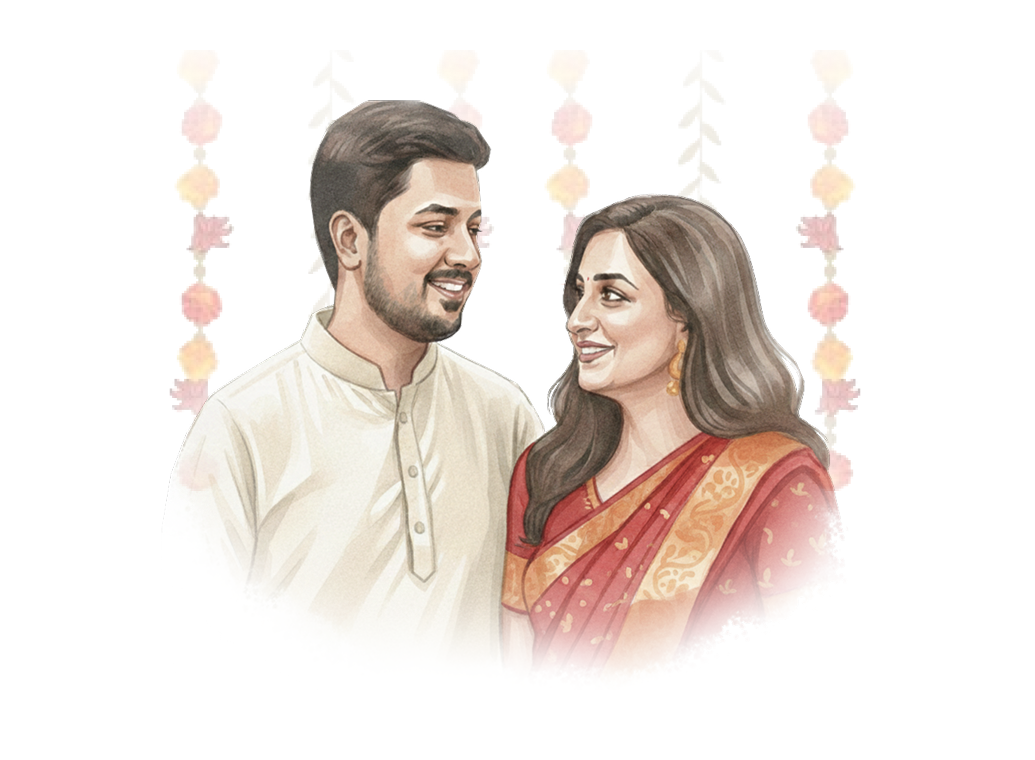
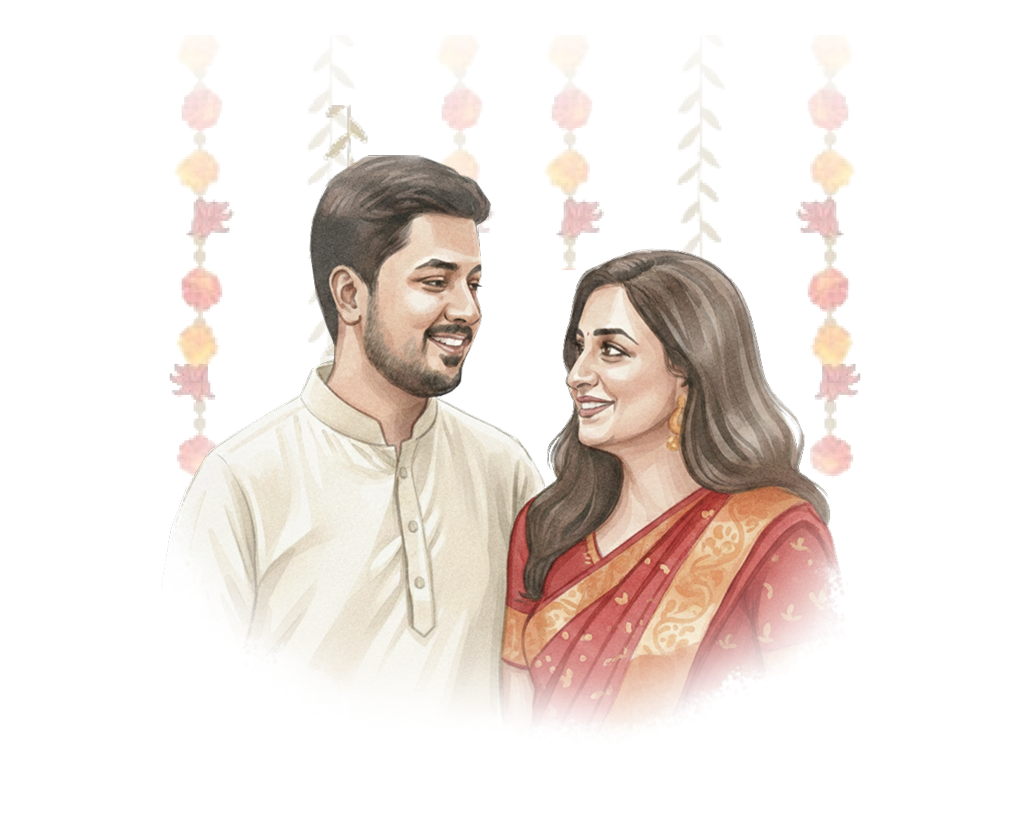
Update plain page layout and add new event image
Modified the layout of the plain page by adjusting styles and adding new navigation links for RSVP and downloading the wedding invitation PDF. Introduced a new event image for the timeline, enhancing the overall user experience.

Changed region(s): [[0.1546, 0.0908, 0.8348, 0.8474]]

diff --git a/src/app/plain/page.tsx b/src/app/plain/page.tsx
@@ -5,28 +5,22 @@ export default function Plain() {
         <div className="relative flex flex-col justify-center items-center text-2xl">
             <div className="w-full z-20" style={{ height: 20, backgroundImage: patternSvg, backgroundRepeat: "repeat-x", backgroundSize: "12px 20px" }} />
             <ul className="flex flex-col items-end gap-2 text-xl italic fixed bottom-10 right-10">
+                <li><a href="/" className="text-black/65"><span className="font-bold">rsvp</span></a></li>
                 <li><a href="/" className="text-black/65">go <span className="font-bold">home</span></a></li>
                 {/* <li><a href="/rsvp" className="text-black/65"><span className="font-bold">~ RSVP ~</span></a></li> */}
                 <li><a href="/animated" className="text-black/65">view the <span className="font-bold">animated</span> version</a></li>
+                <li><a href="/" className="text-black/65">download <span className="font-bold">wedding invitation pdf</span></a></li>
                 {/* <li><a href="/plain" className="text-black/65">view the <span className="font-bold">plain</span> version</a></li> */}
             </ul>
             <div className="flex flex-col items-center max-w-xl w-full py-16 px-8">
-                {/* Sanskrit verse */}
-                <p className="text-center text-[#B14328] leading-relaxed z-10">
-                    "Samāno mantraḥ samitiḥ samānī…"
-                </p>
-                <p className="text-center text-[#B14328] mt-2 z-10">
-                    — Rig Veda 10.191.2
-                </p>
-
                 {/* Couple illustration */}
                 <img
                     src="plain-main.png"
-                    className="-mt-8"
+                    className="-mt-20"
                 />
 
                 {/* Together with their families */}
-                <p className="italic tracking-widest">
+                <p className="italic tracking-widest -mt-6">
                     Together with their families
                 </p>
 
@@ -74,109 +68,120 @@ export default function Plain() {
                 </div>
 
                 {/* Events Timeline */}
-                <div className="mt-24 flex flex-col items-center w-full">
-                    <h2 className="tracking-[0.3em] uppercase mb-16">Events</h2>
+                <div className="mt-24 flex flex-col items-center w-full z-10">
+                    <h2 className="tracking-widest font-bold uppercase mb-16">Events</h2>
 
+                    {/* 1st May group */}
                     <div className="relative w-full max-w-xs">
-                        {/* Vertical line */}
-                        <div className="absolute left-1/2 -translate-x-1/2 top-0 bottom-0 w-px bg-black/25" />
-
-                        {/* 1st May */}
-                        <div className="relative flex items-center pb-10">
-                            <div className="w-1/2 flex items-center pr-4">
-                                <p className="text-lg italic whitespace-nowrap">1<sup className="text-xs">st</sup> May</p>
-                                <div className="flex-1 border-t border-dashed border-black/30 ml-3" />
-                            </div>
-                            <div className="w-1/2" />
-                        </div>
+                        <div className="absolute left-1/2 -translate-x-1/2 top-[166px] bottom-[36px] w-px bg-black" />
 
                         {/* Sangeeth - Right */}
                         <div className="relative flex pb-10">
+                            {/* 1st May diagonal label */}
+                            <p className="absolute whitespace-nowrap top-[40px] left-0">1<sup className="text-xs">st</sup> May</p>
+                            <svg className="absolute left-[80px] top-[52px]" width="80" height="114" fill="none">
+                                <line x1="0" y1="0" x2="80" y2="114" stroke="black" strokeOpacity="1" strokeDasharray="4 4" strokeWidth="2" />
+                            </svg>
                             <div className="w-1/2" />
-                            <div className="absolute left-1/2 -translate-x-1/2 top-2 w-2.5 h-2.5 rounded-full bg-black/50 z-10" />
-                            <div className="w-1/2 pl-5 flex flex-col items-start">
-                                <img src="sangeeth.png" className="w-14 h-14 mb-1" />
-                                <p className="font-medium text-base">Sangeeth</p>
-                                <p className="text-sm text-black/50">5:30pm</p>
+                            <div className="absolute left-1/2 -translate-x-1/2 top-[156px] w-5 h-5 rounded-full bg-black z-10 border-4 border-white" />
+                            <div className="w-1/2 pl-5 flex flex-col items-center pt-[50px]">
+                                <img src="sangeeth.png" className="w-auto h-24 mb-1" />
+                                <p className="font-medium italic">Sangeeth</p>
+                                <p className="text-xl text-black/50">5:30pm</p>
                             </div>
                         </div>
 
                         {/* Dinner - Left */}
-                        <div className="relative flex pb-16">
-                            <div className="w-1/2 pr-5 flex flex-col items-end">
-                                <img src="first-dinner.png" className="w-14 h-14 mb-1" />
-                                <p className="font-medium text-base">Dinner</p>
-                                <p className="text-sm text-black/50">7:30pm</p>
+                        <div className="relative flex">
+                            <div className="w-1/2 pr-5 flex flex-col items-center">
+                                <img src="first-dinner.png" className="w-auto h-24 mb-1" />
+                                <p className="font-medium italic">Dinner</p>
+                                <p className="text-xl text-black/50">7:30pm</p>
                             </div>
-                            <div className="absolute left-1/2 -translate-x-1/2 top-2 w-2.5 h-2.5 rounded-full bg-black/50 z-10" />
+                            <div className="absolute left-1/2 -translate-x-1/2 top-[106px] w-5 h-5 rounded-full bg-black z-10 border-4 border-white" />
                             <div className="w-1/2" />
                         </div>
+                    </div>
 
-                        {/* 3rd May */}
-                        <div className="relative flex items-center pb-10">
-                            <div className="w-1/2 flex items-center pr-4">
-                                <p className="text-lg italic whitespace-nowrap">3<sup className="text-xs">rd</sup> May</p>
-                                <div className="flex-1 border-t border-dashed border-black/30 ml-3" />
-                            </div>
-                            <div className="w-1/2" />
-                        </div>
+                    {/* 3rd May group */}
+                    <div className="relative w-full max-w-xs mt-16">
+                        <div className="absolute left-1/2 -translate-x-1/2 top-[166px] bottom-[36px] w-px bg-black" />
 
                         {/* Muhurtham - Right */}
                         <div className="relative flex pb-10">
+                            {/* 3rd May diagonal label */}
+                            <p className="absolute whitespace-nowrap top-[40px] left-0">3<sup className="text-xs">rd</sup> May</p>
+                            <svg className="absolute left-[80px] top-[52px]" width="80" height="114" fill="none">
+                                <line x1="0" y1="0" x2="80" y2="114" stroke="black" strokeOpacity="1" strokeDasharray="4 4" strokeWidth="2" />
+                            </svg>
                             <div className="w-1/2" />
-                            <div className="absolute left-1/2 -translate-x-1/2 top-2 w-2.5 h-2.5 rounded-full bg-black/50 z-10" />
-                            <div className="w-1/2 pl-5 flex flex-col items-start">
-                                <img src="muhurtham.png" className="w-14 h-14 mb-1" />
-                                <p className="font-medium text-base">Muhurtham</p>
-                                <p className="text-sm text-black/50">11:57am</p>
+                            <div className="absolute left-1/2 -translate-x-1/2 top-[156px] w-5 h-5 rounded-full bg-black z-10 border-4 border-white" />
+                            <div className="w-1/2 pl-5 flex flex-col items-center pt-[50px]">
+                                <img src="muhurtham.png" className="w-auto h-24 mb-1" />
+                                <p className="font-medium italic">Muhurtham</p>
+                                <p className="text-xl text-black/50">11:57am</p>
                             </div>
                         </div>
 
                         {/* Lunch - Left */}
                         <div className="relative flex pb-10">
-                            <div className="w-1/2 pr-5 flex flex-col items-end">
-                                <img src="lunch.png" className="w-14 h-14 mb-1" />
-                                <p className="font-medium text-base">Lunch</p>
-                                <p className="text-sm text-black/50">12:45pm</p>
+                            <div className="w-1/2 pr-5 flex flex-col items-center">
+                                <img src="lunch.png" className="w-auto h-20 mb-1" />
+                                <p className="font-medium italic">Lunch</p>
+                                <p className="text-xl text-black/50">12:45pm</p>
                             </div>
-                            <div className="absolute left-1/2 -translate-x-1/2 top-2 w-2.5 h-2.5 rounded-full bg-black/50 z-10" />
+                            <div className="absolute left-1/2 -translate-x-1/2 top-[106px] w-5 h-5 rounded-full bg-black z-10 border-4 border-white" />
                             <div className="w-1/2" />
                         </div>
 
                         {/* Photos - Right */}
                         <div className="relative flex pb-10">
                             <div className="w-1/2" />
-                            <div className="absolute left-1/2 -translate-x-1/2 top-2 w-2.5 h-2.5 rounded-full bg-black/50 z-10" />
-                            <div className="w-1/2 pl-5 flex flex-col items-start">
-                                <img src="photos.png" className="w-14 h-14 mb-1" />
-                                <p className="font-medium text-base">Photos</p>
-                                <p className="text-sm text-black/50">1:30pm</p>
+                            <div className="absolute left-1/2 -translate-x-1/2 top-[106px] w-5 h-5 rounded-full bg-black z-10 border-4 border-white" />
+                            <div className="w-1/2 pl-5 flex flex-col items-center">
+                                <img src="photos.png" className="w-auto h-24 mb-1" />
+                                <p className="font-medium italic">Photos</p>
+                                <p className="text-xl text-black/50">1:30pm</p>
                             </div>
                         </div>
 
                         {/* Reception - Left */}
                         <div className="relative flex pb-10">
-                            <div className="w-1/2 pr-5 flex flex-col items-end">
-                                <img src="reception.png" className="w-14 h-14 mb-1" />
-                                <p className="font-medium text-base">Reception</p>
-                                <p className="text-sm text-black/50">7:30pm</p>
+                            <div className="w-1/2 pr-5 flex flex-col items-center">
+                                <img src="reception.png" className="w-auto h-32 mb-1" />
+                                <p className="font-medium italic">Reception</p>
+                                <p className="text-xl text-black/50">7:30pm</p>
                             </div>
-                            <div className="absolute left-1/2 -translate-x-1/2 top-2 w-2.5 h-2.5 rounded-full bg-black/50 z-10" />
+                            <div className="absolute left-1/2 -translate-x-1/2 top-[106px] w-5 h-5 rounded-full bg-black z-10 border-4 border-white" />
                             <div className="w-1/2" />
                         </div>
 
                         {/* Dinner - Right */}
                         <div className="relative flex">
                             <div className="w-1/2" />
-                            <div className="absolute left-1/2 -translate-x-1/2 top-2 w-2.5 h-2.5 rounded-full bg-black/50 z-10" />
-                            <div className="w-1/2 pl-5 flex flex-col items-start">
-                                <img src="second-dinner.png" className="w-14 h-14 mb-1" />
-                                <p className="font-medium text-base">Dinner</p>
-                                <p className="text-sm text-black/50">8pm</p>
+                            <div className="absolute left-1/2 -translate-x-1/2 top-[106px] w-5 h-5 rounded-full bg-black z-10 border-4 border-white" />
+                            <div className="w-1/2 pl-5 flex flex-col items-center">
+                                <img src="second-dinner.png" className="w-auto h-24 mb-1" />
+                                <p className="font-medium italic">Dinner</p>
+                                <p className="text-xl text-black/50">8pm</p>
                             </div>
                         </div>
                     </div>
                 </div>
+
+                <div className="mt-24 mb-14 z-10">
+                    <span className="italic">With best compliments from</span>
+                    <p className="text-center mt-4 leading-10">Aatmika, Abhinav, Abhishek,<br/>Rohan, Sanjay</p>
+                </div>
+
+                {/* Sanskrit verse */}
+                <img src="temple.png" className="w-xl absolute bottom-12 z-0 opacity-10 ml-3 pointer-events-none"/>
+                <p className="text-center text-[#B14328] leading-relaxed z-10 mt-32">
+                    "Samāno mantraḥ samitiḥ samānī…"
+                </p>
+                <p className="text-center text-[#B14328] mt-2 z-10 mb-20">
+                    — Rig Veda 10.191.2
+                </p>
             </div>
             <div className="w-full rotate-180" style={{ height: 20, backgroundImage: patternSvg, backgroundRepeat: "repeat-x", backgroundSize: "12px 20px" }} />
         </div>
